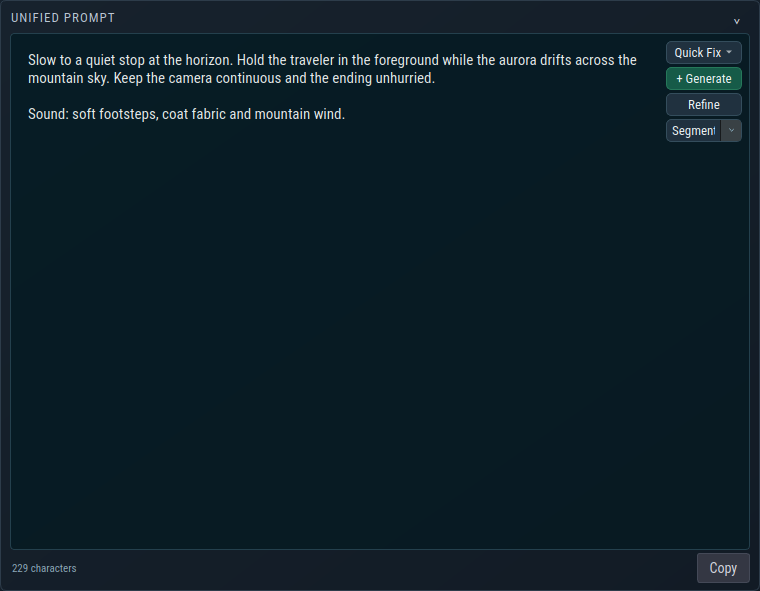
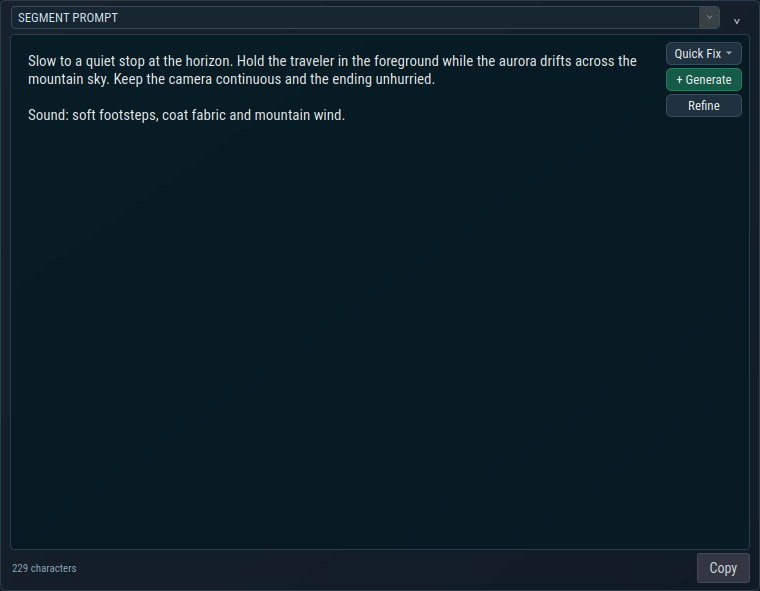
Correct status menu labels and use prompt header scope combo in a114

Changed region(s): [[0.0, 0.0, 0.9987, 0.2437], [0.0303, 0.0914, 0.8474, 0.1523], [0.0303, 0.1827, 0.4539, 0.2132]]

diff --git a/ltx_prompt_director/assets/help/index.html b/ltx_prompt_director/assets/help/index.html
@@ -1,5 +1,5 @@
 <!doctype html><html lang="en"><head><meta charset="utf-8"><meta name="viewport" content="width=device-width,initial-scale=1"><title>Director · Interactive illustrated manual</title><link rel="stylesheet" href="manual.css"></head><body>
-<aside id="sidebar"><a class="brand" href="#start">DIRECTOR<span>Interactive illustrated manual</span></a><label class="search-label" for="search">Find a feature</label><input id="search" type="search" placeholder="Search the guide…"><nav aria-label="Chapters"><a href="#start">Start here</a><a href="#setup">Setup and local generation</a><a href="#timeline">Media and timeline</a><a href="#prompts">Prompt workflows</a><a href="#refinement">Refinement and audio</a><a href="#references">MiniMax references</a><a href="#effects">Effects Library</a><a href="#projects">Projects and properties</a><a href="#review">Video and project files</a><a href="#shots">Finished shot sequences</a><a href="#workspaces">Workspaces and exports</a><a href="#comfy">ComfyUI handoff</a><a href="#install">Installation</a></nav><p id="search-status" aria-live="polite"></p><button id="tour-start">Take the quick tour</button><p class="small">Available offline · Aurora 1.13.0a113<br>External provider and source links need internet.</p></aside>
+<aside id="sidebar"><a class="brand" href="#start">DIRECTOR<span>Interactive illustrated manual</span></a><label class="search-label" for="search">Find a feature</label><input id="search" type="search" placeholder="Search the guide…"><nav aria-label="Chapters"><a href="#start">Start here</a><a href="#setup">Setup and local generation</a><a href="#timeline">Media and timeline</a><a href="#prompts">Prompt workflows</a><a href="#refinement">Refinement and audio</a><a href="#references">MiniMax references</a><a href="#effects">Effects Library</a><a href="#projects">Projects and properties</a><a href="#review">Video and project files</a><a href="#shots">Finished shot sequences</a><a href="#workspaces">Workspaces and exports</a><a href="#comfy">ComfyUI handoff</a><a href="#install">Installation</a></nav><p id="search-status" aria-live="polite"></p><button id="tour-start">Take the quick tour</button><p class="small">Available offline · Aurora 1.13.0a114<br>External provider and source links need internet.</p></aside>
 <main><header class="hero"><div><span class="eyebrow">YOUR CREATIVE WORKSPACE</span><h1>From first idea<br>to a directed sequence.</h1><p>A practical guide to planning, refinement, effects, local generation and production handoff.</p></div><img src="../onboarding/welcome.png" alt="Line-art director’s chair, camera and storyboard frames"></header><aside class="scope-note"><strong>Current editor scope:</strong> Segment Generate/Refine changes the selected beat only. Global acts on the full ordered sequence and rebuilds the combined prompt. The unified editor has independent Generate/Refine controls. Synchronization preserves the source side; timeline-to-combined synchronization uses the whole ordered timeline.</aside>
 <div id="sandbox"><h2>Try the scope controls</h2><p>This guide-only example shows which authored beats a refinement targets.</p><div class="beats"><button class="beat selected" data-beat="0">Opening</button><button class="beat" data-beat="1">Action</button><button class="beat" data-beat="2">Hold</button></div><label>Refine scope <select id="scope"><option value="segment">Selected segment</option><option value="global">Global sequence</option><option value="unified">Unified prompt</option></select></label><p id="scope-result" aria-live="polite"></p></div>
 <section id="start" class="chapter" data-title="Start here"><span class="eyebrow">DIRECTOR GUIDE</span><h1 id="your-complete-guide-to-director">Your complete guide to Director</h1>
@@ -303,7 +303,7 @@
 <p>Open <strong>Media Catalog</strong> from the top toolbar. Dock it beside the timeline or float it on another display. Your image and video collection is available across every project.</p>
 <p>Import files or drop files and folders from your file manager. Browse large preview tiles, select several with Ctrl/Shift, and search names, tags, or descriptions. Right-click a selection to edit its tags and short description, move it into a catalog folder, or add it to the timeline. Create folders with <strong>New folder</strong>; select a folder first to create a subfolder. Drag tiles onto a folder to organize them, onto the timeline to insert them, or into a file manager using native file URLs.</p>
 <p>Imports copy full-resolution images and videos into Prompt Director’s working folder. Catalog tiles and timeline drags use these managed copies, so moving or deleting the original source does not break your imported media. Same-named files remain separate. Removing a catalog entry or folder keeps the media on disk.</p>
-<p>The app ships with <strong>LTX Video</strong>, <strong>MiniMax Standard / Keyframes</strong> and <strong>MiniMax Full Reference</strong>. The guide-based MiniMax templates replace the old MiniMax default. Two additional <strong>Official Skill</strong> workflows provide Standard / Keyframes and Full Reference versions adapted from the supplied prompt-writing skill files. LTX generation and refinement return video prompts and timing without requiring a separate still-image prompt. One prompt panel switches between Segment, Global and Unified while preserving their separate drafts. Compact actions sit inside the panel. The timing overview retains its own resize and hide/reopen handle. Panels shrink within the window and prompt text scrolls within its editor.</p>
+<p>The app ships with <strong>LTX Video</strong>, <strong>MiniMax Standard / Keyframes</strong> and <strong>MiniMax Full Reference</strong>. The guide-based MiniMax templates replace the old MiniMax default. Two additional <strong>Official Skill</strong> workflows provide Standard / Keyframes and Full Reference versions adapted from the supplied prompt-writing skill files. LTX generation and refinement return video prompts and timing without requiring a separate still-image prompt. The prompt panel header switches between Segment Prompt, Global Prompt and Unified Prompt while preserving their separate drafts. Compact actions sit inside the panel. The timing overview retains its own resize and hide/reopen handle. Panels shrink within the window and prompt text scrolls within its editor.</p>
 <p>Media tags appear as pills on each thumbnail, matching the project cards. Press <strong>F2</strong> to rename a selected tile directly below its image; Enter saves and Escape cancels. Press <strong>Delete</strong> to remove selected catalog entries after confirmation. The managed media files remain available on disk.</p>
 <p>The reference-image panel remembers whether you opened or closed it across workspaces and restarts. Reopen it with <strong>Reference images</strong>. The project library retains its chosen dock size when changing workspaces or dock tabs. Media Catalog and video preview use the same blue border as the timeline while accepting a drop.</p>
 <p>Double-click a catalog tile, or choose <strong>View media</strong> from its context menu, to open the lightbox. Browse the current folder and search results with <strong>Previous</strong>, <strong>Next</strong>, or the arrow keys; press <strong>Esc</strong> to close. Images fit the viewer while retaining their original resolution for clipboard copy and export. Right-click an image for those actions. Videos use the project preview controls: play/pause, click-to-seek, fullscreen, video export, and right-click frame export or copy. Closing the viewer stops playback.</p>
@@ -513,7 +513,7 @@ original source bytes.</p>
 <p>Director matches the actions to existing segments in order, preserves their media, resizes their durations and creates text segments for extra valid actions at the end. A whole-brief paste replaces the brief; a timed-action-only paste retains the surrounding sections.</p>
 <p>Start at zero and keep ranges continuous, ascending and nonempty. The final two digits are frames from 00 to 23. If a range is missing or invalid, unmatched cards turn gray while their media remains intact. Correct the timed block or refine the prompt to reconnect the plan.</p>
 <p><strong>Continue:</strong> <a href="#prompts">Prompt workflows</a> · <a href="#workspaces">Exports</a> · <a href="#start">Complete feature guide</a></p></section><section id="prompts" class="chapter" data-title="Prompt workflows"><span class="eyebrow">DIRECTOR GUIDE</span><h1 id="direct-every-segment-keep-the-full-prompt-in-view">Direct every segment. Keep the full prompt in view.</h1>
-<p>All timeline workspaces use one <strong>Unified Prompt</strong> panel. Its scope selector switches between <strong>Segment</strong>, <strong>Global</strong> and <strong>Unified</strong>, keeping each document separate. Select a timeline card to edit that segment, change its frame role or refine its wording and duration. The Prompt Refinement workspace opens its standalone draft in Unified scope.</p>
+<p>All timeline workspaces use one prompt panel. Its header selector switches between <strong>Segment</strong>, <strong>Global</strong> and <strong>Unified</strong>, keeping each document separate. Select a timeline card to edit that segment, change its frame role or refine its wording and duration. The Prompt Refinement workspace opens its standalone draft in Unified scope.</p>
 <p><img alt="One prompt surface with scope controls beside the timeline and timing overview" loading="lazy" decoding="async" width="1500" height="1080" src="images/panel-overhaul.png" /></p>
 <table>
 <thead>
@@ -551,7 +551,7 @@ original source bytes.</p>
 <p><img alt="Standalone MiniMax prompt refinement with inline annotations" loading="lazy" decoding="async" width="1330" height="840" src="images/minimax-prompt-refinement.png" /></p>
 <p>Refinement uses only your current prompt and its inline annotations. It preserves the existing MiniMax format, stated timing, identities, dialogue and audio direction unless you request a change. Use <strong>Copy</strong> to take the result into your generation workflow. Save and reopen it as a normal project; each workspace keeps its own draft. Switching back to a timeline workspace restores its segment controls and draft.</p>
 <h2 id="edit-the-beats-then-develop-the-full-prompt">Edit the beats, then develop the full prompt</h2>
-<p>Choose a scope from the compact controls inside the prompt panel:</p>
+<p>Choose a scope from the prompt panel header. The heading identifies the document you are editing:</p>
 <table>
 <thead>
 <tr>
@@ -577,7 +577,7 @@ original source bytes.</p>
 <p>The same Quick Fix, Generate and Refine controls follow the selected scope. Unified Generate rebuilds from all current segments and reference roles. Unified Refine changes the production text without rewriting the timeline. <strong>Copy</strong> copies the active document. The timing overview and its resize handle remain above the panel.</p>
 <p>The header chevron hides or reopens the prompt body. That view preference is remembered, while the timing overview remains available.</p>
 <p>Switching scope preserves your drafts. Pasting or editing Unified text does not change the timeline. Manual timing edits update recognized MiniMax timecodes locally. Segment wording reaches the production draft through an explicit Generate/Refine or synchronization action.</p>
-<p><img alt="The compact scope selector and actions inside the prompt panel" loading="lazy" decoding="async" width="760" height="591" src="images/prompt-scope-panel.png" /></p>
+<p><img alt="The scope selector in the header and compact actions beside the editor" loading="lazy" decoding="async" width="760" height="591" src="images/prompt-scope-panel.png" /></p>
 <p>MiniMax gives each recognized shot passage a soft highlight. Its boundary starts
 at the timecode (or the first shot's untimed text) and ends before the next
 <code>[Shot N]</code> label. Blank lines between shots and the sound/music sections stay
@@ -887,7 +887,7 @@ custom thumbnail. A recognizable cover helps you find the right plan as the libr
 <p>Choose <strong>Title A–Z</strong>, <strong>Title Z–A</strong> or <strong>Custom</strong> sorting. Dragging a project or collection establishes a custom order. Status and label filters help narrow the gallery; the app remembers your selected filter choices.</p>
 <h2 id="make-progress-visible">Make progress visible</h2>
 <p>A project has one <strong>Status</strong> and can have several additional <strong>Tags</strong>. Its status appears as a colored pill under the cover and description. The stock choices include Draft, In progress, Ready, Needs review, Completed and Failed. Older Done, Consider and Re-shoot statuses remain available. Customize definitions in <strong>Settings → Application</strong>.</p>
-<p>Right-click a project or collection and choose <strong>Card color</strong> to set an independent color for its border and top strip. <strong>Use status color</strong> restores the previous status-based appearance. The <strong>Color</strong> filter selects explicitly assigned colors; <strong>No color</strong> includes cards using their status color. <strong>Status</strong> provides checkboxes that stay open while you select multiple statuses. <strong>More filters</strong> retains no-status, legacy-status, additional-tag and archive choices. The reset-filter button clears search and restores the active-project filters.</p>
+<p>Right-click a project or collection and choose <strong>Status</strong> for the card appearance presets: Ready, In progress, Needs review, Completed, Failed and Draft. <strong>Use status color</strong> restores the appearance from the project's saved status. <strong>Set status</strong> edits that saved status. The <strong>Color</strong> filter selects explicitly assigned colors; <strong>No color</strong> includes cards using their saved status color. The <strong>Status</strong> filter provides checkboxes that stay open while you select multiple statuses. <strong>More filters</strong> retains no-status, legacy-status, additional-tag and archive choices. The reset-filter button clears search and restores the active-project filters.</p>
 <p><img alt="Multiple status choices with matching checkboxes and colored dots" loading="lazy" decoding="async" width="145" height="211" src="images/project-status-filter.png" /></p>
 <p>Archive a project when it should move out of the active flow while remaining available. Collection context actions can apply status, labels and archive choices to their members. Deletion is a separate confirmed action that removes the selected saved project.</p>
 <h2 id="put-the-next-steps-beside-the-plan">Put the next steps beside the plan</h2>

diff --git a/ltx_prompt_director/panel_design.py b/ltx_prompt_director/panel_design.py
@@ -329,8 +329,12 @@ class PromptSurface(QFrame):
         self.setObjectName('unifiedPromptSurface')
         layout=QVBoxLayout(self);layout.setContentsMargins(9,5,9,7);layout.setSpacing(5)
         header=QHBoxLayout();header.setContentsMargins(1,0,1,0)
-        title=QLabel('UNIFIED PROMPT');title.setObjectName('panelTitle');header.addWidget(title)
-        header.addStretch()
+        self.scope=QComboBox();self.scope.setObjectName('surfaceScope')
+        self.scope.setAccessibleName('Prompt scope')
+        for label,key in [('SEGMENT PROMPT','segment'),('GLOBAL PROMPT','global'),('UNIFIED PROMPT','unified')]:self.scope.addItem(label,key)
+        self.scope.setToolTip('Segment edits one beat. Global directs the whole sequence. Unified edits the production draft.')
+        self.scope.setSizePolicy(QSizePolicy.Policy.Expanding,QSizePolicy.Policy.Fixed)
+        header.addWidget(self.scope,1)
         self.collapse=QToolButton();self.collapse.setText('⌄');self.collapse.setCheckable(True)
         self.collapse.setObjectName('surfaceCollapse')
         self.collapse.setAccessibleName('Collapse prompt editor');header.addWidget(self.collapse)
@@ -356,10 +360,7 @@ class PromptSurface(QFrame):
         self.quick_menu.aboutToShow.connect(self.populate_quick_fixes)
         self.generate=QPushButton('+ Generate');self.generate.setObjectName('surfaceGenerate')
         self.refine=QPushButton('Refine');self.refine.setObjectName('surfaceRefine')
-        self.scope=QComboBox();self.scope.setAccessibleName('Prompt scope')
-        for label,key in [('Segment','segment'),('Global','global'),('Unified','unified')]:self.scope.addItem(label,key)
-        self.scope.setToolTip('Segment edits one beat. Global directs the whole sequence. Unified edits the production draft.')
-        for control in (self.quick,self.generate,self.refine,self.scope):rail.addWidget(control)
+        for control in (self.quick,self.generate,self.refine):rail.addWidget(control)
         rail.addStretch(1);content.addWidget(self.rail)
         body.addWidget(self.content,1)
         footer=QHBoxLayout();footer.setContentsMargins(2,0,0,0);footer.setSpacing(5)

diff --git a/tests/test_panel_design.py b/tests/test_panel_design.py
@@ -177,9 +177,15 @@ def test_panel_controls_fit_reference_and_narrow_layouts():
         for scale,width,height in [(100,1400,900),(100,1080,800),(120,1400,1000)]:
             w.settings.setValue('ui_text_scale',scale);w._apply_theme();w.resize(width,height);w.show();QTest.qWait(60)
             surface=w.prompt_surface
-            for control in (surface.quick,surface.generate,surface.refine,surface.scope):
+            for control in (surface.quick,surface.generate,surface.refine):
                 assert surface.rail.rect().contains(control.geometry())
                 assert control.height()>=control.fontMetrics().height()
+            assert surface.scope.parent() is surface
+            assert surface.scope.geometry().bottom()<surface.body.geometry().top()
+            assert surface.scope.width()>=surface.width()-80*scale/100
+            for scope,label in [('segment','SEGMENT PROMPT'),('global','GLOBAL PROMPT'),('unified','UNIFIED PROMPT')]:
+                surface.select(scope)
+                assert surface.scope.currentText()==label
             assert surface.width()<=w.editor_root.width()
             assert surface.editors.width()>150
             assert not w.conditioning_guide.isHidden()

diff --git a/tests/test_minimax_editor.py b/tests/test_minimax_editor.py
@@ -758,7 +758,7 @@ class UnifiedEditorTests(unittest.TestCase):
         self.assertFalse(hasattr(w, "planning_row"))
         self.assertFalse(w.voice_options_button.isEnabled())
         self.assertFalse(w.voice_options_button.isHidden())
-        self.assertLessEqual(w.prompt_surface.scope.width(), 100)
+        self.assertGreaterEqual(w.prompt_surface.scope.width(), w.prompt_surface.width() - 80)
         w.prompt_scope.setCurrentIndex(1)
         self.assertIs(stack.currentWidget(), w.intent_segment_prompt)
         w.intent_segment_prompt.setPlainText("A wide editor\\n/refine Keep scene continuity")
@@ -785,7 +785,7 @@ class UnifiedEditorTests(unittest.TestCase):
         w.show()
         self.app.processEvents()
         self.assertIs(w.options_row, w.sequence_controls)
-        self.assertLessEqual(w.prompt_surface.scope.width(), 100)
+        self.assertGreaterEqual(w.prompt_surface.scope.width(), w.prompt_surface.width() - 80)
         self.assertGreaterEqual(w.conditioning_guide.height(), 96)
         self.assertEqual(w.start_button.text(), "Start")
         self.assertEqual(w.end_button.text(), "End")

diff --git a/ltx_prompt_director/ui.py b/ltx_prompt_director/ui.py
@@ -5398,10 +5398,12 @@ class MainWindow(QMainWindow):
         meta = item.data(Qt.ItemDataRole.UserRole) or {}
         menu = QMenu(self)
         from .panel_design import COLORS, dot_icon
-        colors_menu = menu.addMenu('Card color')
+        colors_menu = menu.addMenu('Status')
         colors_menu.addAction('Use status color', lambda: self.set_selected_project_color(''))
+        status_labels = {'Green': 'Ready', 'Blue': 'In progress', 'Amber': 'Needs review',
+                         'Purple': 'Completed', 'Red': 'Failed', 'Gray': 'Draft'}
         for label, color in COLORS:
-            action = colors_menu.addAction(dot_icon(color), label)
+            action = colors_menu.addAction(dot_icon(color), status_labels[label])
             action.triggered.connect(lambda checked=False, value=color: self.set_selected_project_color(value))
         is_collection = meta.get("kind") == "collection"
         members = meta.get("members", []) if is_collection else [meta]

diff --git a/ltx_prompt_director/workspace_style.py b/ltx_prompt_director/workspace_style.py
@@ -85,6 +85,7 @@ def workspace_style(theme, scale):
     #promptActionRail QPushButton:hover{{background:#2c4a59;border-color:#65a7ad}}
     #surfacePromptCount{{font-size:{size(11)}px;color:#8ca8b8;background:transparent}}
     #surfaceCollapse{{background:transparent;border:0;padding:0;margin:0;min-width:0;min-height:0}}
+    #surfaceScope{{background:#172630;border:1px solid #344d5c;border-radius:{size(4)}px;padding:{size(1)}px {size(6)}px;color:#d0e3f1;font:{size(13)}px "Roboto Condensed";min-width:0;min-height:0}}
     QMainWindow QTabBar::tab{{background:#121b24;color:#c0cfda;border:0;border-bottom:2px solid transparent;padding:{size(4)}px {size(7)}px;font-size:{size(13)}px}}
     QMainWindow QTabBar::tab:selected{{border-bottom-color:#38bbd0;color:#e1f3f5}}
     #libraryDockTabs::tab{{min-width:{size(130)}px}}

diff --git a/ltx_prompt_director/__init__.py b/ltx_prompt_director/__init__.py
@@ -1,3 +1,3 @@
 """Prompt Director native desktop application."""
 
-__version__ = "1.13.0a113"
+__version__ = "1.13.0a114"

diff --git a/usage.md b/usage.md
@@ -111,7 +111,7 @@ Import files or drop files and folders from your file manager. Browse large prev
 
 Imports copy full-resolution images and videos into Prompt Director’s working folder. Catalog tiles and timeline drags use these managed copies, so moving or deleting the original source does not break your imported media. Same-named files remain separate. Removing a catalog entry or folder keeps the media on disk.
 
-The app ships with **LTX Video**, **MiniMax Standard / Keyframes** and **MiniMax Full Reference**. The guide-based MiniMax templates replace the old MiniMax default. Two additional **Official Skill** workflows provide Standard / Keyframes and Full Reference versions adapted from the supplied prompt-writing skill files. LTX generation and refinement return video prompts and timing without requiring a separate still-image prompt. One prompt panel switches between Segment, Global and Unified while preserving their separate drafts. Compact actions sit inside the panel. The timing overview retains its own resize and hide/reopen handle. Panels shrink within the window and prompt text scrolls within its editor.
+The app ships with **LTX Video**, **MiniMax Standard / Keyframes** and **MiniMax Full Reference**. The guide-based MiniMax templates replace the old MiniMax default. Two additional **Official Skill** workflows provide Standard / Keyframes and Full Reference versions adapted from the supplied prompt-writing skill files. LTX generation and refinement return video prompts and timing without requiring a separate still-image prompt. The prompt panel header switches between Segment Prompt, Global Prompt and Unified Prompt while preserving their separate drafts. Compact actions sit inside the panel. The timing overview retains its own resize and hide/reopen handle. Panels shrink within the window and prompt text scrolls within its editor.
 
 Media tags appear as pills on each thumbnail, matching the project cards. Press **F2** to rename a selected tile directly below its image; Enter saves and Escape cancels. Press **Delete** to remove selected catalog entries after confirmation. The managed media files remain available on disk.
 

diff --git a/docs/unified-workflows.md b/docs/unified-workflows.md
@@ -1,6 +1,6 @@
 # Direct every segment. Keep the full prompt in view.
 
-All timeline workspaces use one **Unified Prompt** panel. Its scope selector switches between **Segment**, **Global** and **Unified**, keeping each document separate. Select a timeline card to edit that segment, change its frame role or refine its wording and duration. The Prompt Refinement workspace opens its standalone draft in Unified scope.
+All timeline workspaces use one prompt panel. Its header selector switches between **Segment**, **Global** and **Unified**, keeping each document separate. Select a timeline card to edit that segment, change its frame role or refine its wording and duration. The Prompt Refinement workspace opens its standalone draft in Unified scope.
 
 ![One prompt surface with scope controls beside the timeline and timing overview](images/panel-overhaul.png)
 
@@ -24,7 +24,7 @@ Refinement uses only your current prompt and its inline annotations. It preserve
 
 ## Edit the beats, then develop the full prompt
 
-Choose a scope from the compact controls inside the prompt panel:
+Choose a scope from the prompt panel header. The heading identifies the document you are editing:
 
 | Scope | What you edit and generate |
 | --- | --- |
@@ -38,7 +38,7 @@ The header chevron hides or reopens the prompt body. That view preference is rem
 
 Switching scope preserves your drafts. Pasting or editing Unified text does not change the timeline. Manual timing edits update recognized MiniMax timecodes locally. Segment wording reaches the production draft through an explicit Generate/Refine or synchronization action.
 
-![The compact scope selector and actions inside the prompt panel](images/prompt-scope-panel.png)
+![The scope selector in the header and compact actions beside the editor](images/prompt-scope-panel.png)
 
 MiniMax gives each recognized shot passage a soft highlight. Its boundary starts
 at the timecode (or the first shot's untimed text) and ends before the next

diff --git a/docs/performance-and-properties.md b/docs/performance-and-properties.md
@@ -29,7 +29,7 @@ Choose **Title A–Z**, **Title Z–A** or **Custom** sorting. Dragging a projec
 
 A project has one **Status** and can have several additional **Tags**. Its status appears as a colored pill under the cover and description. The stock choices include Draft, In progress, Ready, Needs review, Completed and Failed. Older Done, Consider and Re-shoot statuses remain available. Customize definitions in **Settings → Application**.
 
-Right-click a project or collection and choose **Card color** to set an independent color for its border and top strip. **Use status color** restores the previous status-based appearance. The **Color** filter selects explicitly assigned colors; **No color** includes cards using their status color. **Status** provides checkboxes that stay open while you select multiple statuses. **More filters** retains no-status, legacy-status, additional-tag and archive choices. The reset-filter button clears search and restores the active-project filters.
+Right-click a project or collection and choose **Status** for the card appearance presets: Ready, In progress, Needs review, Completed, Failed and Draft. **Use status color** restores the appearance from the project's saved status. **Set status** edits that saved status. The **Color** filter selects explicitly assigned colors; **No color** includes cards using their saved status color. The **Status** filter provides checkboxes that stay open while you select multiple statuses. **More filters** retains no-status, legacy-status, additional-tag and archive choices. The reset-filter button clears search and restores the active-project filters.
 
 ![Multiple status choices with matching checkboxes and colored dots](images/project-status-filter.png)
 

diff --git a/docs/development/aurora-a114.md b/docs/development/aurora-a114.md
@@ -1,0 +1,9 @@
+# Aurora a114: project menu wording and prompt header
+
+The existing Card color context submenu is now labeled Status. Its presets use the confirmed labels Ready, In progress, Needs review, Completed, Failed and Draft in place of Green, Blue, Amber, Purple, Red and Gray. The color values, callbacks, saved-status actions, filters and panel layout are unchanged.
+
+A native menu check verifies every label and its original color callback; the illustrated guide describes the current menu. Packaging and publication repeat the existing release checks. The private style guide records the confirmed mapping and remains Git-ignored.
+
+The scope picker is now a full-width combo dropdown in the prompt panel header. Its displayed title is Segment Prompt, Global Prompt or Unified Prompt, matching the active document. Generate, Refine and Quick Fix retain their compact action rail. Scope keys, document mappings, draft preservation, timing and generation callbacks are unchanged. Focused panel tests cover header placement and all three titles at normal, narrow and scaled layouts.
+
+Local validation passed eight focused panel/editor checks, including the full-width combo and all three scope titles at normal, narrow and 120% text scale. The native menu check confirms the seven menu entries and every original color callback.
